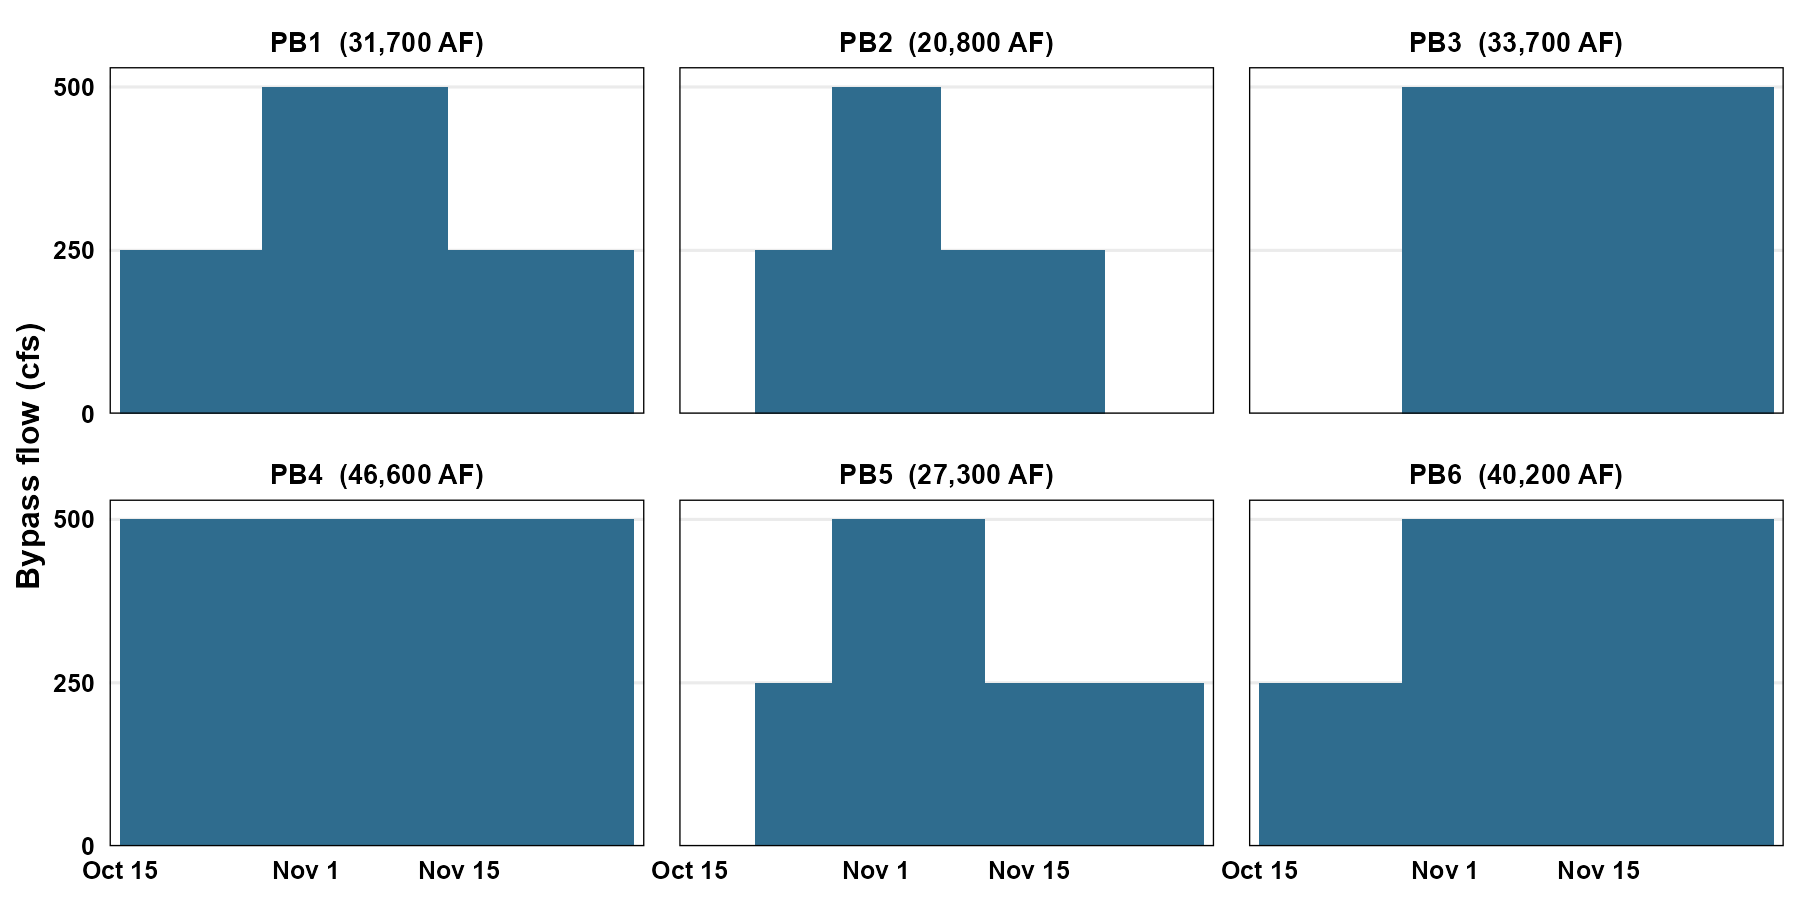
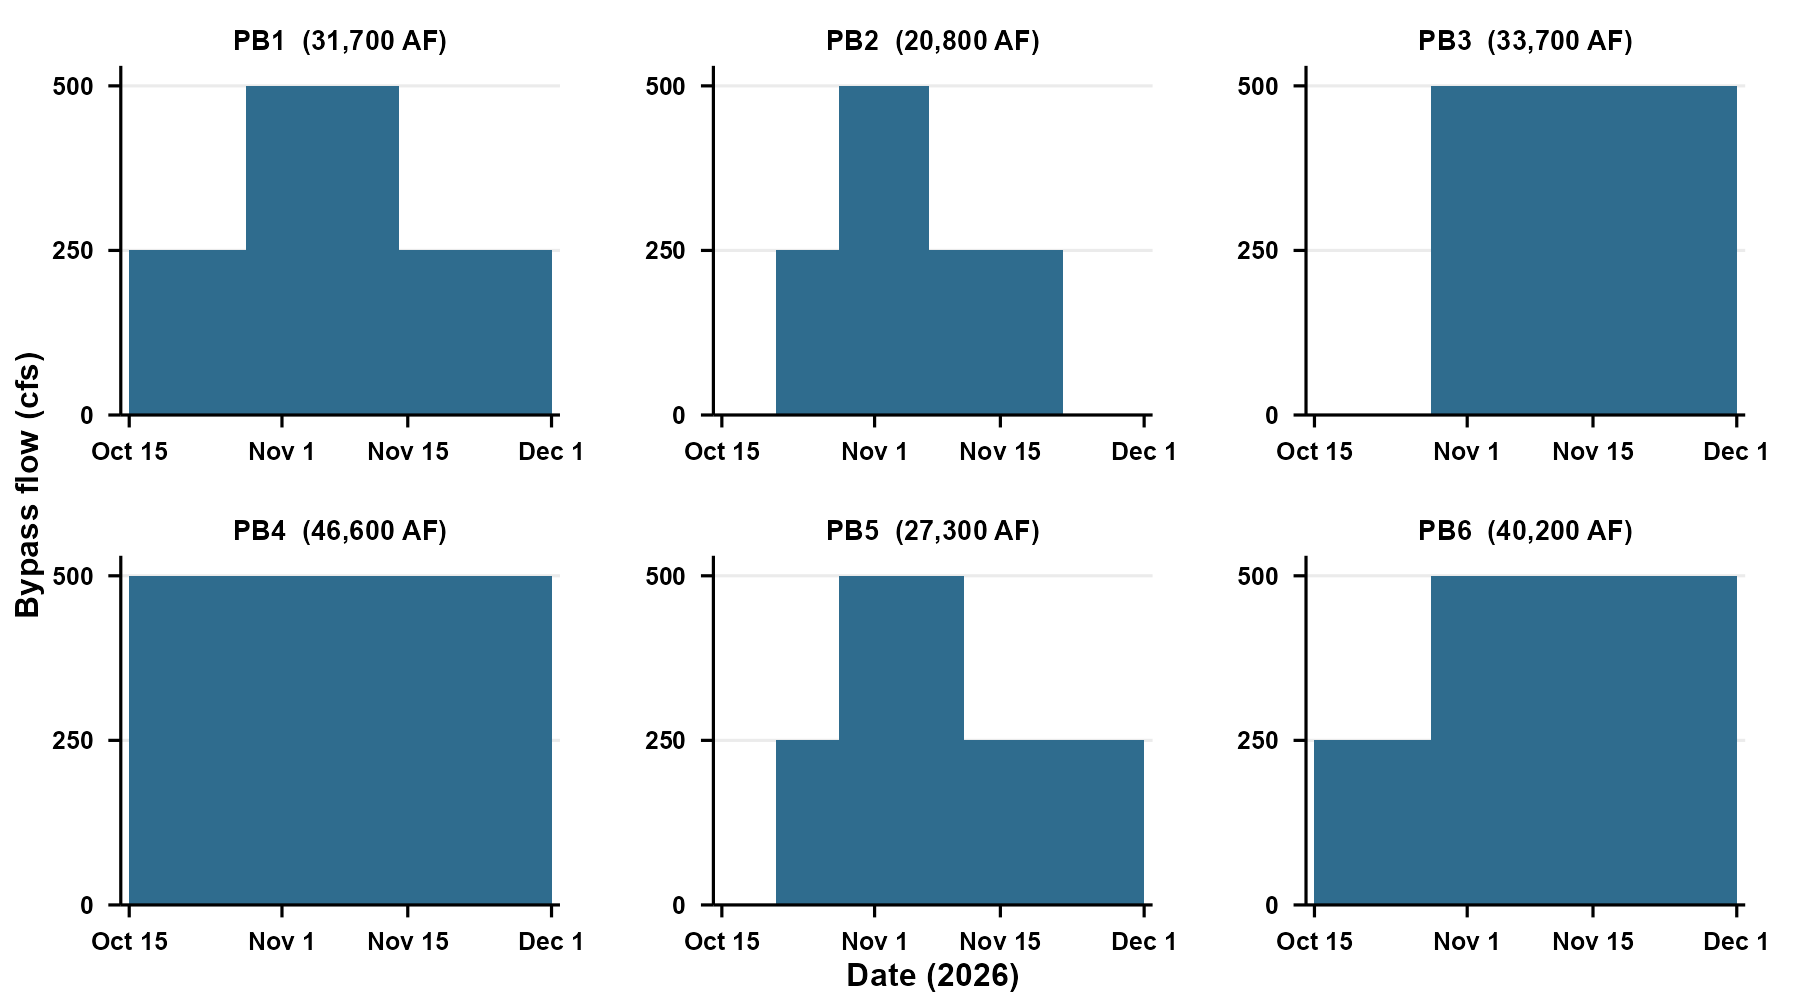
App opens on 2026; axis lines, ticks and bold axis text on every plot
ARG_DEFAULT_YEAR is 2026, the current decision year; 2025 stays selectable
and its results are unchanged.

Every plot in the app uses one theme (theme_app): black x and y axis lines
with ticks, bold axis text and titles, light major grid. Bar charts sit on
the axis line, and the overall score plot labels its x axis.

The bypass schedule chart has both axes on every panel, ticks, and a date
axis running to Dec 1.

diff --git a/README.md b/README.md
@@ -150,8 +150,8 @@ are registered in `ARG_YEARS` in `SalmonCountR/years.R`, each pointing at a fold
 
 | Entry | Folder | State |
 |---|---|---|
-| `2025` (default) | `SalmonCountR/app_data/` | The published analysis |
-| `2026` | `SalmonCountR/app_data/2026/` | The 30 Sep 2026 temperature deliverable (ten scenarios) run through the 2025 model, with the 30 Sep 2026 hydropower valuation. Its weights start at the 2025 elicited set. See its [README](SalmonCountR/app_data/2026/README.md) |
+| `2025` | `SalmonCountR/app_data/` | The published analysis |
+| `2026` (default) | `SalmonCountR/app_data/2026/` | The 30 Sep 2026 temperature deliverable (ten scenarios) run through the 2025 model, with the 30 Sep 2026 hydropower valuation. Its weights start at the 2025 elicited set. See its [README](SalmonCountR/app_data/2026/README.md) |
 
 Each entry names the calendar year its deliverable models (`temperature_year`,
 2026 for the `2026` entry), which the Temperature Explorer shows, separately from the

diff --git a/SalmonCountR/DEPLOY.md b/SalmonCountR/DEPLOY.md
@@ -5,7 +5,7 @@ on GitHub; `main` is the latest):
 
 ```
 git pull
-git checkout v1.5.0        # or stay on main
+git checkout v1.5.1        # or stay on main
 ```
 
 Then, in a fresh R session, from the repo root:
